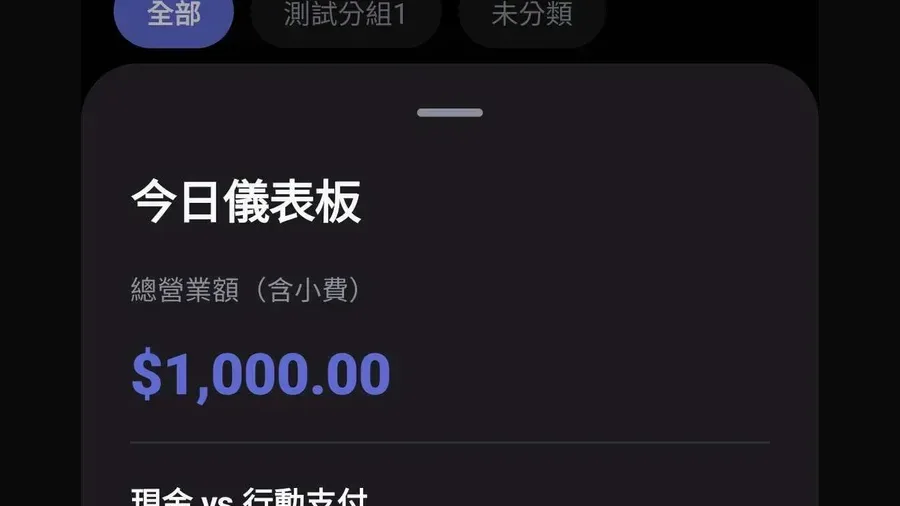
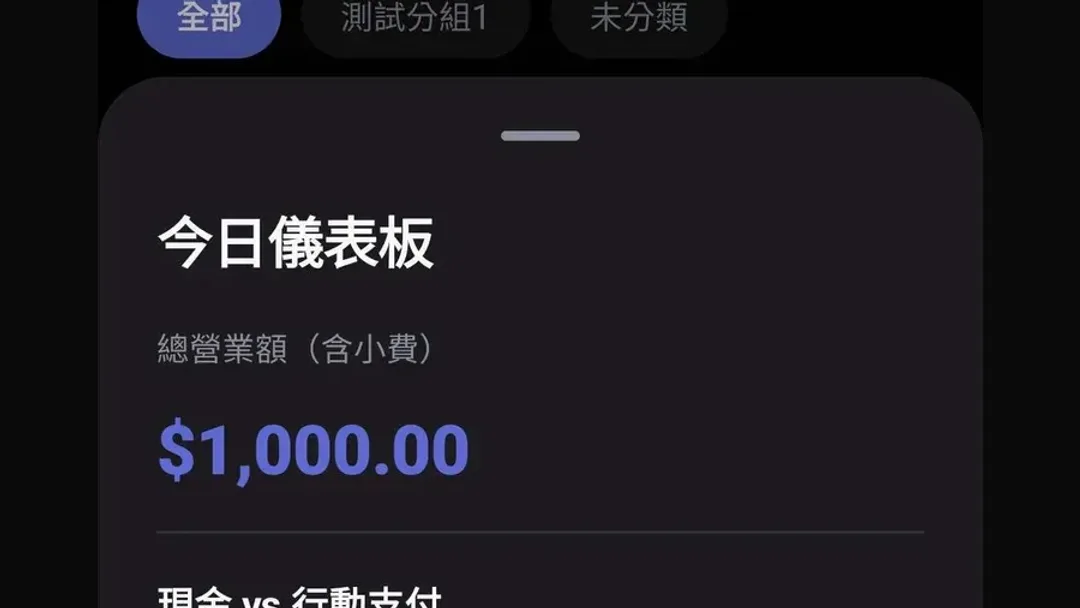
perf(portfolio): recapture featured shots at 2x webp
Desktop art and itabag frames are ~2200px wide so 1088 CSS cards stay sharp on retina. Add a 10px square screenshot inset and a contact H2 without changing the inquiry button.

diff --git a/components/ProjectScreenshotFigure.tsx b/components/ProjectScreenshotFigure.tsx
@@ -45,21 +45,23 @@ export function ProjectScreenshotFigure({
       )}
     >
       {isFeatured ? (
-        <div className="relative aspect-[4/5] overflow-hidden bg-media md:aspect-video">
-          <picture className="absolute inset-0">
-            {desktopSrcSet ? (
-              <source media="(min-width: 768px)" srcSet={desktopSrcSet} />
-            ) : null}
-            <Image
-              src={screenshot.src}
-              alt={screenshot.alt}
-              fill
-              sizes={imageSizes}
-              loading={priority ? "eager" : undefined}
-              fetchPriority={priority ? "high" : undefined}
-              className="object-cover object-center transition-transform duration-300 ease-out group-hover:scale-[1.015]"
-            />
-          </picture>
+        <div className="bg-media p-2.5 md:p-3">
+          <div className="relative aspect-[4/5] overflow-hidden md:aspect-video">
+            <picture className="absolute inset-0">
+              {desktopSrcSet ? (
+                <source media="(min-width: 768px)" srcSet={desktopSrcSet} />
+              ) : null}
+              <Image
+                src={screenshot.src}
+                alt={screenshot.alt}
+                fill
+                sizes={imageSizes}
+                loading={priority ? "eager" : undefined}
+                fetchPriority={priority ? "high" : undefined}
+                className="object-cover object-center transition-transform duration-300 ease-out group-hover:scale-[1.015]"
+              />
+            </picture>
+          </div>
         </div>
       ) : (
         <picture className="block">

diff --git a/components/ProjectCard.tsx b/components/ProjectCard.tsx
@@ -17,14 +17,16 @@ export function ProjectCard({
         className="block focus-visible:outline-2 focus-visible:outline-offset-2 focus-visible:outline-foreground"
       >
         {screenshot ? (
-          <div className="relative aspect-[4/5] overflow-hidden bg-media md:aspect-video">
-            <Image
-              src={screenshot.src}
-              alt=""
-              fill
-              sizes="(max-width: 768px) 100vw, 536px"
-              className="object-cover object-center transition-transform duration-300 ease-out group-hover:scale-[1.015]"
-            />
+          <div className="bg-media p-2.5 md:p-3">
+            <div className="relative aspect-[4/5] overflow-hidden md:aspect-video">
+              <Image
+                src={screenshot.src}
+                alt=""
+                fill
+                sizes="(max-width: 768px) 100vw, 536px"
+                className="object-cover object-center transition-transform duration-300 ease-out group-hover:scale-[1.015]"
+              />
+            </div>
           </div>
         ) : (
           <ProjectImagePlaceholder project={project} size="sm" />

diff --git a/app/page.tsx b/app/page.tsx
@@ -165,6 +165,7 @@ export default function HomePage() {
         <SectionHeading id="contact-heading" index="05">
           聯絡
         </SectionHeading>
+        <p className="type-h2 mb-4">歡迎來信洽詢委託。</p>
         <p className="type-body max-w-xl">{site.availability}</p>
         <p className="mt-3 break-all font-mono text-sm text-foreground">
           {site.email}

diff --git a/next.config.ts b/next.config.ts
@@ -14,7 +14,7 @@ const nextConfig: NextConfig = {
   },
   images: {
     formats: ["image/avif", "image/webp"],
-    deviceSizes: [384, 640, 828, 1200],
+    deviceSizes: [384, 640, 828, 1200, 1920, 2560],
     imageSizes: [32, 48, 64, 96, 128, 176, 256, 352],
   },
   async redirects() {
